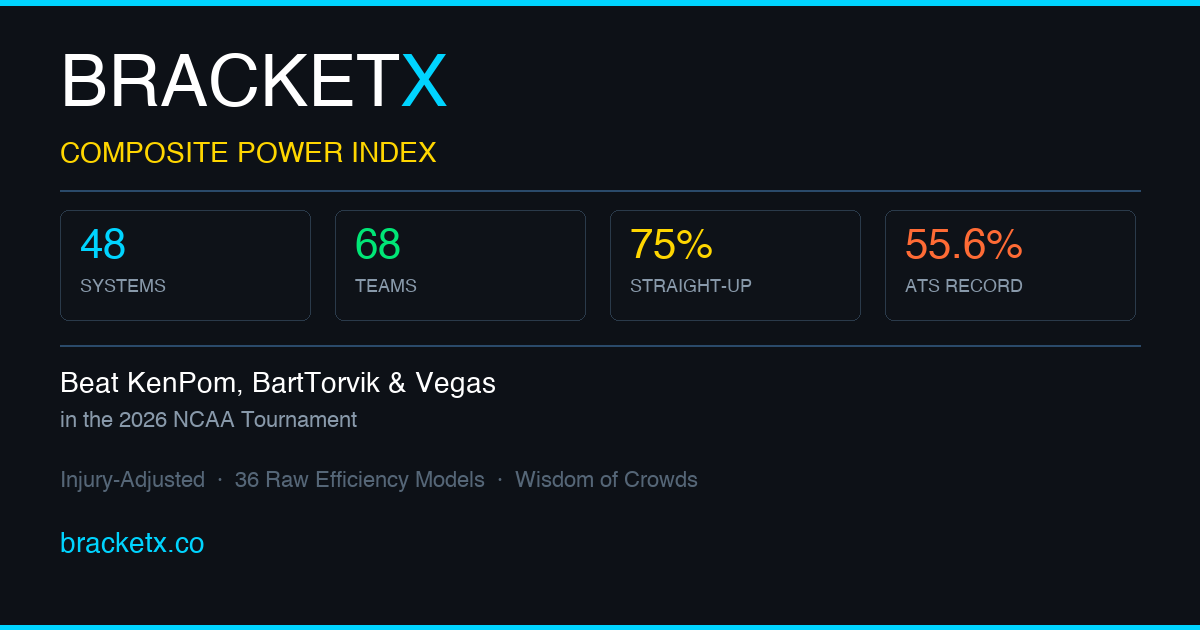
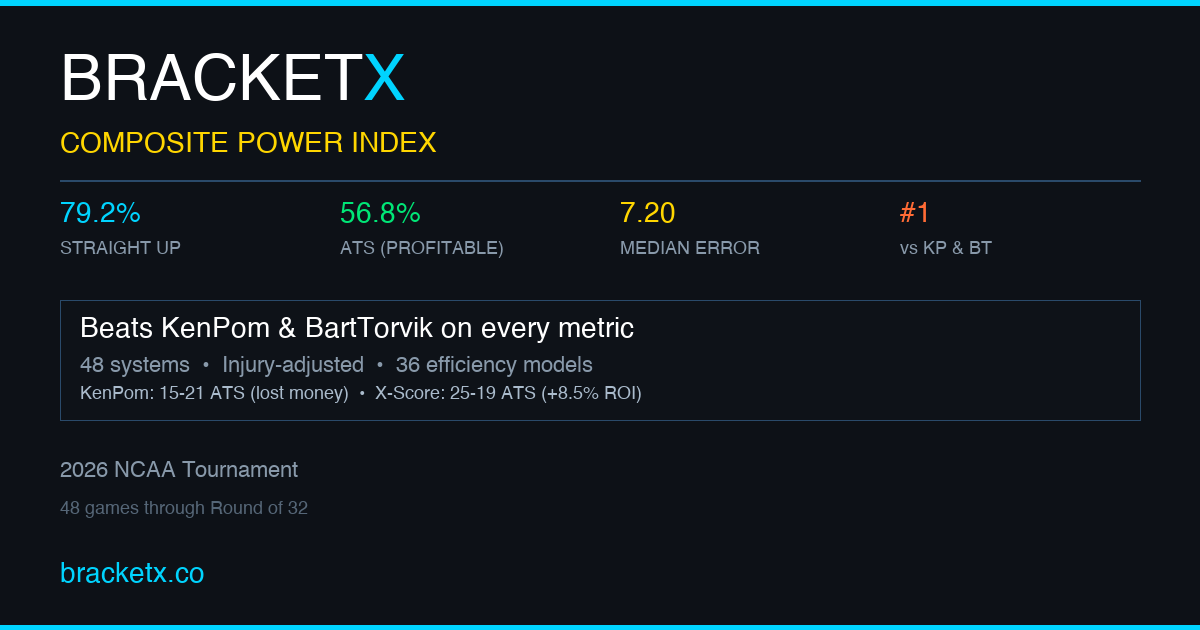
S16 futures recalculation, OG image, launch-ready
- Futures SWEET 16 tab now recalculates probabilities from actual S16 matchups
  (not R64 bracket path). Each S16 team starts at p=1.0
- S16 column hidden on SWEET 16 tab (all teams are already in S16)
- Description text changes based on active tab
- OG image generated with key stats for social sharing
- Updated OG meta tags with current results (79.2% SU, 56.8% ATS)

diff --git a/bracketx.html b/bracketx.html
@@ -5,13 +5,13 @@
 <meta name="viewport" content="width=device-width, initial-scale=1.0">
 <title>BracketX — Composite Power Index</title>
 <meta property="og:title" content="BracketX — Composite Power Index">
-<meta property="og:description" content="36 ranking systems. 68 teams. One composite score. Outperformed KenPom, BartTorvik, and Vegas closing lines in the 2026 NCAA Tournament.">
+<meta property="og:description" content="48 ranking systems. 68 teams. 79.2% straight-up. 56.8% ATS (profitable). Beats KenPom and BartTorvik on every metric in the 2026 NCAA Tournament.">
 <meta property="og:type" content="website">
 <meta property="og:url" content="https://bracketx.co">
 <meta property="og:image" content="https://bracketx.co/og-image.png">
 <meta name="twitter:card" content="summary_large_image">
 <meta name="twitter:title" content="BracketX — Composite Power Index">
-<meta name="twitter:description" content="36 systems. 68 teams. 75% straight-up. 55.6% ATS. Better than KenPom.">
+<meta name="twitter:description" content="48 systems. 79.2% SU. 56.8% ATS. KenPom went 15-21 ATS and lost money. We went 25-19 and profited. bracketx.co">
 <meta name="twitter:image" content="https://bracketx.co/og-image.png">
 <link rel="icon" type="image/png" href="/favicon.png">
 <link rel="apple-touch-icon" href="/apple-touch-icon.png">
@@ -456,34 +456,67 @@ function App(){
     const tgEW=getTG("EW"),tgSM=getTG("SM");
     tgEW.forEach(a=>{tgSM.forEach(b=>{const p=pw((tMap[a.nm]||{xs:0}).xs,(tMap[b.nm]||{xs:0}).xs);
       probs[a.nm].champ+=a.p*b.p*p;probs[b.nm].champ+=a.p*b.p*(1-p);});});
+    // S16-specific simulation: start from known Sweet 16 matchups
+    const s16probs={};teams.forEach(t=>{s16probs[t.nm]={e8:0,f4:0,title:0,champ:0};});
+    ["East","South","West","Midwest"].forEach(rg=>{
+      const s16g=BRACKET_S16.filter(m=>m.r===rg);// 2 games per region
+      if(s16g.length<2)return;
+      // S16 matchups: each team starts at p=1.0
+      const s16t=s16g.map(m=>[{nm:m.h,p:1},{nm:m.a,p:1}]);
+      // E8 from S16
+      for(let i=0;i<2;i++){const[a1,a2]=s16t[i];
+        const p=pw((tMap[a1.nm]||{xs:0}).xs,(tMap[a2.nm]||{xs:0}).xs);
+        s16probs[a1.nm].e8=p;s16probs[a2.nm].e8=1-p;}
+      // F4: E8 winners play each other
+      const e8w=s16t.map(([a,b])=>{const p=pw((tMap[a.nm]||{xs:0}).xs,(tMap[b.nm]||{xs:0}).xs);
+        return[{nm:a.nm,p},{nm:b.nm,p:1-p}];});
+      e8w[0].forEach(a=>{e8w[1].forEach(b=>{const p=pw((tMap[a.nm]||{xs:0}).xs,(tMap[b.nm]||{xs:0}).xs);
+        s16probs[a.nm].f4+=a.p*b.p*p;s16probs[b.nm].f4+=a.p*b.p*(1-p);});});
+    });
+    // F4 matchups for s16probs: East vs West, South vs Midwest
+    const gs16F4=(rg)=>Object.entries(s16probs).filter(([nm])=>{const t=tMap[nm];return t&&t.rg===rg&&s16probs[nm].f4>0;}).map(([nm,p])=>({nm,p:p.f4}));
+    const s16ew=gs16F4("East"),s16ww=gs16F4("West"),s16sw=gs16F4("South"),s16mw=gs16F4("Midwest");
+    s16ew.forEach(a=>{s16ww.forEach(b=>{const p=pw((tMap[a.nm]||{xs:0}).xs,(tMap[b.nm]||{xs:0}).xs);
+      s16probs[a.nm].title+=a.p*b.p*p;s16probs[b.nm].title+=a.p*b.p*(1-p);});});
+    s16sw.forEach(a=>{s16mw.forEach(b=>{const p=pw((tMap[a.nm]||{xs:0}).xs,(tMap[b.nm]||{xs:0}).xs);
+      s16probs[a.nm].title+=a.p*b.p*p;s16probs[b.nm].title+=a.p*b.p*(1-p);});});
+    // Championship for s16probs
+    const gs16TG=(side)=>Object.entries(s16probs).filter(([nm])=>{const t=tMap[nm];return t&&s16probs[nm].title>0&&(side==="EW"?(t.rg==="East"||t.rg==="West"):(t.rg==="South"||t.rg==="Midwest"));}).map(([nm,p])=>({nm,p:p.title}));
+    const s16tgEW=gs16TG("EW"),s16tgSM=gs16TG("SM");
+    s16tgEW.forEach(a=>{s16tgSM.forEach(b=>{const p=pw((tMap[a.nm]||{xs:0}).xs,(tMap[b.nm]||{xs:0}).xs);
+      s16probs[a.nm].champ+=a.p*b.p*p;s16probs[b.nm].champ+=a.p*b.p*(1-p);});});
+
+    const isField=reg==="Field";
+    const activeProbs=isField?s16probs:probs;
     const fmt=v=>v>=.01?(v*100).toFixed(1)+"%":v>=.001?(v*100).toFixed(2)+"%":"<0.1%";
+    const cols=isField?["X#","SD","TEAM","CHAMP","FINALS","F4","E8"]:["X#","SD","TEAM","CHAMP","FINALS","F4","E8","S16"];
     const fSortKeys={"X#":"rk",SD:"sd",TEAM:"nm",CHAMP:"champ",FINALS:"title",F4:"f4",E8:"e8",S16:"s16"};
     const fColor=h=>h==="CHAMP"?"#ffd600":h==="FINALS"?"#ff6b35":h==="F4"?"#00d4ff":h==="E8"?"#00e676":h==="S16"?"#e040fb":"#8899aa";
-    const baseList=(reg==="Field"?teams.filter(t=>S16_TEAMS.has(t.nm)):reg==="All"?teams:teams.filter(t=>t.rg===reg)).filter(t=>probs[t.nm].s16>0.001);
+    const baseList=(isField?teams.filter(t=>S16_TEAMS.has(t.nm)):reg==="All"?teams:teams.filter(t=>t.rg===reg)).filter(t=>isField?true:probs[t.nm].s16>0.001);
     const sorted=baseList.slice().sort((a,b)=>{
-      const pa=probs[a.nm],pb=probs[b.nm];
+      const pa=activeProbs[a.nm],pb=activeProbs[b.nm];if(!pa||!pb)return 0;
       if(sk==="rk")return sd*(a.rk-b.rk);if(sk==="sd")return sd*(a.s-b.s)||(a.rk-b.rk);
       if(sk==="nm")return sd*a.nm.localeCompare(b.nm);
-      if(sk==="champ")return sd*(pb.champ-pa.champ);if(sk==="title")return sd*(pb.title-pa.title);
-      if(sk==="f4")return sd*(pb.f4-pa.f4);if(sk==="e8")return sd*(pb.e8-pa.e8);
-      if(sk==="s16")return sd*(pb.s16-pa.s16);return a.rk-b.rk;
+      if(sk==="champ")return sd*((pb.champ||0)-(pa.champ||0));if(sk==="title")return sd*((pb.title||0)-(pa.title||0));
+      if(sk==="f4")return sd*((pb.f4||0)-(pa.f4||0));if(sk==="e8")return sd*((pb.e8||0)-(pa.e8||0));
+      if(sk==="s16")return sd*((pb.s16||0)-(pa.s16||0));return a.rk-b.rk;
     });
     return e("div",null,
-      e("div",{style:{background:"#0e1218",border:"1px solid #1a2a3a",borderRadius:6,padding:"7px 12px",marginBottom:12,fontSize:10,color:"#8899aa"}},
-        e("strong",{style:{color:"#ffd600"}},"FUTURES:")," Composite-implied probability to reach each round based on full bracket-path simulation using X-Scores."),
+      e("div",{style:{background:"#0e1218",border:"1px solid #1a2a3a",borderRadius:6,padding:"7px 12px",marginBottom:12,fontSize:10,color:"#aab"}},
+        e("strong",{style:{color:"#ffd600"}},"FUTURES:")," ",isField?"Updated implied probabilities for the 16 remaining teams, starting from known Sweet 16 matchups.":"Pre-tournament implied probability to reach each round based on full bracket-path simulation using X-Scores."),
       e("div",{style:{overflowX:"auto",background:"#0d1117"}},
         e("table",{style:{width:"100%",borderCollapse:"collapse",fontSize:11,background:"#0d1117"}},
           e("thead",null,e("tr",{style:{borderBottom:"1px solid #1a2a3a"}},
-            ["X#","SD","TEAM","CHAMP","FINALS","F4","E8","S16"].map(h=>e("th",{key:h,style:{padding:"5px 8px",textAlign:h==="TEAM"?"left":"center",fontSize:9,color:sk===fSortKeys[h]?"#fff":fColor(h),fontWeight:600,cursor:"pointer",userSelect:"none",textDecoration:sk===fSortKeys[h]?"underline":"none"},onClick:()=>doSort(fSortKeys[h])},h+arrow(fSortKeys[h]))))),
-          e("tbody",null,sorted.map((t,i)=>{const p=probs[t.nm];return e("tr",{key:t.nm,style:{borderBottom:"1px solid rgba(255,255,255,.02)",background:i%2===0?"#0e1218":"#0d1117"}},
+            cols.map(h=>e("th",{key:h,style:{padding:"5px 8px",textAlign:h==="TEAM"?"left":"center",fontSize:9,color:sk===fSortKeys[h]?"#fff":fColor(h),fontWeight:600,cursor:"pointer",userSelect:"none",textDecoration:sk===fSortKeys[h]?"underline":"none"},onClick:()=>doSort(fSortKeys[h])},h+arrow(fSortKeys[h]))))),
+          e("tbody",null,sorted.map((t,i)=>{const p=activeProbs[t.nm];if(!p)return null;return e("tr",{key:t.nm,style:{borderBottom:"1px solid rgba(255,255,255,.02)",background:i%2===0?"#0e1218":"#0d1117"}},
             e("td",{style:{padding:"4px 8px",fontWeight:700,color:"#00d4ff",textAlign:"center"}},t.rk),
             e("td",{style:{padding:"4px 8px",color:RC[t.rg],textAlign:"center"}},t.s),
             e("td",{style:{padding:"4px 8px",fontFamily:"Outfit",fontWeight:600,color:"#fff",display:"flex",alignItems:"center",gap:6}},LOGOS[t.nm]?e("img",{src:"https://a.espncdn.com/combiner/i?img=/i/teamlogos/ncaa/500/"+LOGOS[t.nm]+".png&h=20&w=20",style:{width:20,height:20,borderRadius:3,background:"transparent"}}):null,e("span",null,t.nm,e("span",{style:{fontSize:8,color:"#8899aa",marginLeft:6}},t.cf+" \u00B7 "+t.rec))),
-            e("td",{style:{padding:"4px 8px",textAlign:"center",fontWeight:700,color:p.champ>=.1?"#ffd600":p.champ>=.01?"#d4a020":"#667"}},fmt(p.champ)),
-            e("td",{style:{padding:"4px 8px",textAlign:"center",fontWeight:600,color:p.title>=.1?"#ff6b35":"#778"}},fmt(p.title)),
-            e("td",{style:{padding:"4px 8px",textAlign:"center",fontWeight:600,color:p.f4>=.1?"#00d4ff":"#778"}},fmt(p.f4)),
-            e("td",{style:{padding:"4px 8px",textAlign:"center",color:p.e8>=.2?"#00e676":"#778"}},fmt(p.e8)),
-            e("td",{style:{padding:"4px 8px",textAlign:"center",color:p.s16>=.5?"#e040fb":"#aab"}},fmt(p.s16)));})))));
+            e("td",{style:{padding:"4px 8px",textAlign:"center",fontWeight:700,color:(p.champ||0)>=.1?"#ffd600":(p.champ||0)>=.01?"#d4a020":"#667"}},fmt(p.champ||0)),
+            e("td",{style:{padding:"4px 8px",textAlign:"center",fontWeight:600,color:(p.title||0)>=.1?"#ff6b35":"#778"}},fmt(p.title||0)),
+            e("td",{style:{padding:"4px 8px",textAlign:"center",fontWeight:600,color:(p.f4||0)>=.1?"#00d4ff":"#778"}},fmt(p.f4||0)),
+            e("td",{style:{padding:"4px 8px",textAlign:"center",color:(p.e8||0)>=.2?"#00e676":"#778"}},fmt(p.e8||0)),
+            !isField?e("td",{style:{padding:"4px 8px",textAlign:"center",color:(p.s16||0)>=.5?"#e040fb":"#aab"}},fmt(p.s16||0)):null);})))));
   };
 
   // ════════ METHODOLOGY TAB ════════

diff --git a/index.html b/index.html
@@ -5,13 +5,13 @@
 <meta name="viewport" content="width=device-width, initial-scale=1.0">
 <title>BracketX — Composite Power Index</title>
 <meta property="og:title" content="BracketX — Composite Power Index">
-<meta property="og:description" content="36 ranking systems. 68 teams. One composite score. Outperformed KenPom, BartTorvik, and Vegas closing lines in the 2026 NCAA Tournament.">
+<meta property="og:description" content="48 ranking systems. 68 teams. 79.2% straight-up. 56.8% ATS (profitable). Beats KenPom and BartTorvik on every metric in the 2026 NCAA Tournament.">
 <meta property="og:type" content="website">
 <meta property="og:url" content="https://bracketx.co">
 <meta property="og:image" content="https://bracketx.co/og-image.png">
 <meta name="twitter:card" content="summary_large_image">
 <meta name="twitter:title" content="BracketX — Composite Power Index">
-<meta name="twitter:description" content="36 systems. 68 teams. 75% straight-up. 55.6% ATS. Better than KenPom.">
+<meta name="twitter:description" content="48 systems. 79.2% SU. 56.8% ATS. KenPom went 15-21 ATS and lost money. We went 25-19 and profited. bracketx.co">
 <meta name="twitter:image" content="https://bracketx.co/og-image.png">
 <link rel="icon" type="image/png" href="/favicon.png">
 <link rel="apple-touch-icon" href="/apple-touch-icon.png">
@@ -456,34 +456,67 @@ function App(){
     const tgEW=getTG("EW"),tgSM=getTG("SM");
     tgEW.forEach(a=>{tgSM.forEach(b=>{const p=pw((tMap[a.nm]||{xs:0}).xs,(tMap[b.nm]||{xs:0}).xs);
       probs[a.nm].champ+=a.p*b.p*p;probs[b.nm].champ+=a.p*b.p*(1-p);});});
+    // S16-specific simulation: start from known Sweet 16 matchups
+    const s16probs={};teams.forEach(t=>{s16probs[t.nm]={e8:0,f4:0,title:0,champ:0};});
+    ["East","South","West","Midwest"].forEach(rg=>{
+      const s16g=BRACKET_S16.filter(m=>m.r===rg);// 2 games per region
+      if(s16g.length<2)return;
+      // S16 matchups: each team starts at p=1.0
+      const s16t=s16g.map(m=>[{nm:m.h,p:1},{nm:m.a,p:1}]);
+      // E8 from S16
+      for(let i=0;i<2;i++){const[a1,a2]=s16t[i];
+        const p=pw((tMap[a1.nm]||{xs:0}).xs,(tMap[a2.nm]||{xs:0}).xs);
+        s16probs[a1.nm].e8=p;s16probs[a2.nm].e8=1-p;}
+      // F4: E8 winners play each other
+      const e8w=s16t.map(([a,b])=>{const p=pw((tMap[a.nm]||{xs:0}).xs,(tMap[b.nm]||{xs:0}).xs);
+        return[{nm:a.nm,p},{nm:b.nm,p:1-p}];});
+      e8w[0].forEach(a=>{e8w[1].forEach(b=>{const p=pw((tMap[a.nm]||{xs:0}).xs,(tMap[b.nm]||{xs:0}).xs);
+        s16probs[a.nm].f4+=a.p*b.p*p;s16probs[b.nm].f4+=a.p*b.p*(1-p);});});
+    });
+    // F4 matchups for s16probs: East vs West, South vs Midwest
+    const gs16F4=(rg)=>Object.entries(s16probs).filter(([nm])=>{const t=tMap[nm];return t&&t.rg===rg&&s16probs[nm].f4>0;}).map(([nm,p])=>({nm,p:p.f4}));
+    const s16ew=gs16F4("East"),s16ww=gs16F4("West"),s16sw=gs16F4("South"),s16mw=gs16F4("Midwest");
+    s16ew.forEach(a=>{s16ww.forEach(b=>{const p=pw((tMap[a.nm]||{xs:0}).xs,(tMap[b.nm]||{xs:0}).xs);
+      s16probs[a.nm].title+=a.p*b.p*p;s16probs[b.nm].title+=a.p*b.p*(1-p);});});
+    s16sw.forEach(a=>{s16mw.forEach(b=>{const p=pw((tMap[a.nm]||{xs:0}).xs,(tMap[b.nm]||{xs:0}).xs);
+      s16probs[a.nm].title+=a.p*b.p*p;s16probs[b.nm].title+=a.p*b.p*(1-p);});});
+    // Championship for s16probs
+    const gs16TG=(side)=>Object.entries(s16probs).filter(([nm])=>{const t=tMap[nm];return t&&s16probs[nm].title>0&&(side==="EW"?(t.rg==="East"||t.rg==="West"):(t.rg==="South"||t.rg==="Midwest"));}).map(([nm,p])=>({nm,p:p.title}));
+    const s16tgEW=gs16TG("EW"),s16tgSM=gs16TG("SM");
+    s16tgEW.forEach(a=>{s16tgSM.forEach(b=>{const p=pw((tMap[a.nm]||{xs:0}).xs,(tMap[b.nm]||{xs:0}).xs);
+      s16probs[a.nm].champ+=a.p*b.p*p;s16probs[b.nm].champ+=a.p*b.p*(1-p);});});
+
+    const isField=reg==="Field";
+    const activeProbs=isField?s16probs:probs;
     const fmt=v=>v>=.01?(v*100).toFixed(1)+"%":v>=.001?(v*100).toFixed(2)+"%":"<0.1%";
+    const cols=isField?["X#","SD","TEAM","CHAMP","FINALS","F4","E8"]:["X#","SD","TEAM","CHAMP","FINALS","F4","E8","S16"];
     const fSortKeys={"X#":"rk",SD:"sd",TEAM:"nm",CHAMP:"champ",FINALS:"title",F4:"f4",E8:"e8",S16:"s16"};
     const fColor=h=>h==="CHAMP"?"#ffd600":h==="FINALS"?"#ff6b35":h==="F4"?"#00d4ff":h==="E8"?"#00e676":h==="S16"?"#e040fb":"#8899aa";
-    const baseList=(reg==="Field"?teams.filter(t=>S16_TEAMS.has(t.nm)):reg==="All"?teams:teams.filter(t=>t.rg===reg)).filter(t=>probs[t.nm].s16>0.001);
+    const baseList=(isField?teams.filter(t=>S16_TEAMS.has(t.nm)):reg==="All"?teams:teams.filter(t=>t.rg===reg)).filter(t=>isField?true:probs[t.nm].s16>0.001);
     const sorted=baseList.slice().sort((a,b)=>{
-      const pa=probs[a.nm],pb=probs[b.nm];
+      const pa=activeProbs[a.nm],pb=activeProbs[b.nm];if(!pa||!pb)return 0;
       if(sk==="rk")return sd*(a.rk-b.rk);if(sk==="sd")return sd*(a.s-b.s)||(a.rk-b.rk);
       if(sk==="nm")return sd*a.nm.localeCompare(b.nm);
-      if(sk==="champ")return sd*(pb.champ-pa.champ);if(sk==="title")return sd*(pb.title-pa.title);
-      if(sk==="f4")return sd*(pb.f4-pa.f4);if(sk==="e8")return sd*(pb.e8-pa.e8);
-      if(sk==="s16")return sd*(pb.s16-pa.s16);return a.rk-b.rk;
+      if(sk==="champ")return sd*((pb.champ||0)-(pa.champ||0));if(sk==="title")return sd*((pb.title||0)-(pa.title||0));
+      if(sk==="f4")return sd*((pb.f4||0)-(pa.f4||0));if(sk==="e8")return sd*((pb.e8||0)-(pa.e8||0));
+      if(sk==="s16")return sd*((pb.s16||0)-(pa.s16||0));return a.rk-b.rk;
     });
     return e("div",null,
-      e("div",{style:{background:"#0e1218",border:"1px solid #1a2a3a",borderRadius:6,padding:"7px 12px",marginBottom:12,fontSize:10,color:"#8899aa"}},
-        e("strong",{style:{color:"#ffd600"}},"FUTURES:")," Composite-implied probability to reach each round based on full bracket-path simulation using X-Scores."),
+      e("div",{style:{background:"#0e1218",border:"1px solid #1a2a3a",borderRadius:6,padding:"7px 12px",marginBottom:12,fontSize:10,color:"#aab"}},
+        e("strong",{style:{color:"#ffd600"}},"FUTURES:")," ",isField?"Updated implied probabilities for the 16 remaining teams, starting from known Sweet 16 matchups.":"Pre-tournament implied probability to reach each round based on full bracket-path simulation using X-Scores."),
       e("div",{style:{overflowX:"auto",background:"#0d1117"}},
         e("table",{style:{width:"100%",borderCollapse:"collapse",fontSize:11,background:"#0d1117"}},
           e("thead",null,e("tr",{style:{borderBottom:"1px solid #1a2a3a"}},
-            ["X#","SD","TEAM","CHAMP","FINALS","F4","E8","S16"].map(h=>e("th",{key:h,style:{padding:"5px 8px",textAlign:h==="TEAM"?"left":"center",fontSize:9,color:sk===fSortKeys[h]?"#fff":fColor(h),fontWeight:600,cursor:"pointer",userSelect:"none",textDecoration:sk===fSortKeys[h]?"underline":"none"},onClick:()=>doSort(fSortKeys[h])},h+arrow(fSortKeys[h]))))),
-          e("tbody",null,sorted.map((t,i)=>{const p=probs[t.nm];return e("tr",{key:t.nm,style:{borderBottom:"1px solid rgba(255,255,255,.02)",background:i%2===0?"#0e1218":"#0d1117"}},
+            cols.map(h=>e("th",{key:h,style:{padding:"5px 8px",textAlign:h==="TEAM"?"left":"center",fontSize:9,color:sk===fSortKeys[h]?"#fff":fColor(h),fontWeight:600,cursor:"pointer",userSelect:"none",textDecoration:sk===fSortKeys[h]?"underline":"none"},onClick:()=>doSort(fSortKeys[h])},h+arrow(fSortKeys[h]))))),
+          e("tbody",null,sorted.map((t,i)=>{const p=activeProbs[t.nm];if(!p)return null;return e("tr",{key:t.nm,style:{borderBottom:"1px solid rgba(255,255,255,.02)",background:i%2===0?"#0e1218":"#0d1117"}},
             e("td",{style:{padding:"4px 8px",fontWeight:700,color:"#00d4ff",textAlign:"center"}},t.rk),
             e("td",{style:{padding:"4px 8px",color:RC[t.rg],textAlign:"center"}},t.s),
             e("td",{style:{padding:"4px 8px",fontFamily:"Outfit",fontWeight:600,color:"#fff",display:"flex",alignItems:"center",gap:6}},LOGOS[t.nm]?e("img",{src:"https://a.espncdn.com/combiner/i?img=/i/teamlogos/ncaa/500/"+LOGOS[t.nm]+".png&h=20&w=20",style:{width:20,height:20,borderRadius:3,background:"transparent"}}):null,e("span",null,t.nm,e("span",{style:{fontSize:8,color:"#8899aa",marginLeft:6}},t.cf+" \u00B7 "+t.rec))),
-            e("td",{style:{padding:"4px 8px",textAlign:"center",fontWeight:700,color:p.champ>=.1?"#ffd600":p.champ>=.01?"#d4a020":"#667"}},fmt(p.champ)),
-            e("td",{style:{padding:"4px 8px",textAlign:"center",fontWeight:600,color:p.title>=.1?"#ff6b35":"#778"}},fmt(p.title)),
-            e("td",{style:{padding:"4px 8px",textAlign:"center",fontWeight:600,color:p.f4>=.1?"#00d4ff":"#778"}},fmt(p.f4)),
-            e("td",{style:{padding:"4px 8px",textAlign:"center",color:p.e8>=.2?"#00e676":"#778"}},fmt(p.e8)),
-            e("td",{style:{padding:"4px 8px",textAlign:"center",color:p.s16>=.5?"#e040fb":"#aab"}},fmt(p.s16)));})))));
+            e("td",{style:{padding:"4px 8px",textAlign:"center",fontWeight:700,color:(p.champ||0)>=.1?"#ffd600":(p.champ||0)>=.01?"#d4a020":"#667"}},fmt(p.champ||0)),
+            e("td",{style:{padding:"4px 8px",textAlign:"center",fontWeight:600,color:(p.title||0)>=.1?"#ff6b35":"#778"}},fmt(p.title||0)),
+            e("td",{style:{padding:"4px 8px",textAlign:"center",fontWeight:600,color:(p.f4||0)>=.1?"#00d4ff":"#778"}},fmt(p.f4||0)),
+            e("td",{style:{padding:"4px 8px",textAlign:"center",color:(p.e8||0)>=.2?"#00e676":"#778"}},fmt(p.e8||0)),
+            !isField?e("td",{style:{padding:"4px 8px",textAlign:"center",color:(p.s16||0)>=.5?"#e040fb":"#aab"}},fmt(p.s16||0)):null);})))));
   };
 
   // ════════ METHODOLOGY TAB ════════
